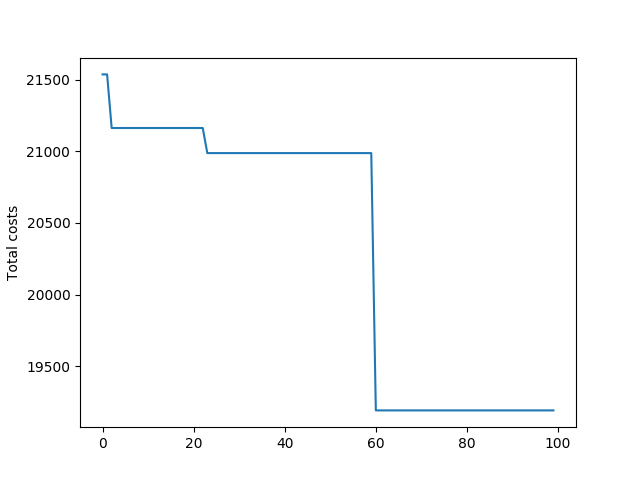
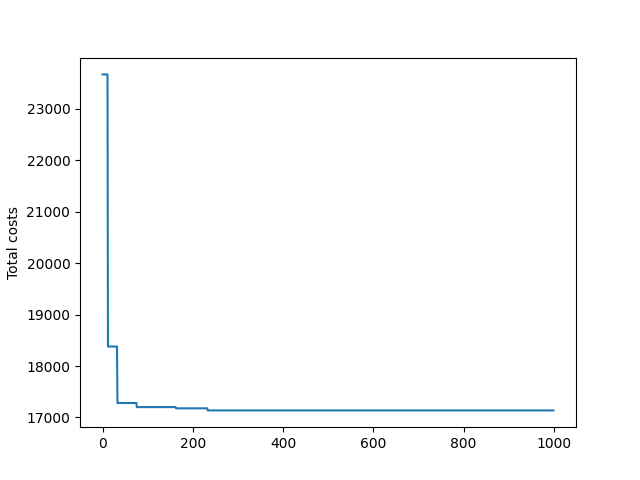
Better

diff --git a/airplane.py b/airplane.py
@@ -2,6 +2,13 @@ import numpy as np
 import matplotlib.pyplot as plt
 import seaborn as sns
 import random
+import copy
+
+class Member:
+    def __init__(self, airplane):
+        self.airplane = airplane
+        self.cost = 0
+        self.invert_cost = 0
 
 routes = np.array([0, 1, 2, 3, 4])
 revenu_lost_per_passenger_turned_away = np.array([13, 20, 7, 7, 15])
@@ -65,10 +72,10 @@ def get_revenu_lost_per_route(airplanes):
         string += 'Revenu lost on ' + str(index+1) + ' : ' + str(revenu_lost_temp) + ' => (' + str(passenger_demand_per_route[index]) + ' - ' + str(np.multiply(airplanes[index], aircraft_capacity_per_spot[index]).sum()) + ')' + ' * ' + str(revenu_lost_per_passenger_turned_away[index]) + ' \n'
     return revenu_lost
 
-def cost_function(airplanes):
+def cost_function(member):
     total_operating_cost = np.multiply(
-        operational_cost_per_spot, airplanes).sum()
-    total_revenu_lost = get_revenu_lost_per_route(airplanes)
+        operational_cost_per_spot, member.airplane).sum()
+    total_revenu_lost = get_revenu_lost_per_route(member.airplane)
     total_lost = total_operating_cost + total_revenu_lost
     return total_lost
 
@@ -77,7 +84,7 @@ def generate_first_population(pop_count):
     for index in range(0, pop_count):
         # generate a random distribution
         distribution = generate_aircraft_distribution()
-        all_population.append(distribution)
+        all_population.append(Member(distribution))
     return all_population
 
 def compute_costs(population):
@@ -85,43 +92,60 @@ def compute_costs(population):
     all_invert_costs = []
     for index in range(0, len(population)):
         cost = cost_function(population[index])
+        population[index].cost = cost
+        population[index].invert_cost = 1/cost
         all_invert_costs.append(1/cost)
         all_costs.append(cost)
-    return all_costs, all_invert_costs
+    return population
 
-def compute_probabilitis(all_costs, all_invert_costs):
-    sum_cost = sum(all_invert_costs)
+def compute_probabilitis(all_population):
+    sum_cost = sum(p.invert_cost for p in all_population)
     all_proba = []
-    for index in range(0, len(all_costs)):
-        proba = (1/all_costs[index]) / sum_cost
-        all_proba.append(proba)
-    return all_proba
+    for index in range(0, len(all_population)):
+        proba = (1/all_population[index].cost) / sum_cost
+        all_population[index].proba = proba
+    return all_population
 
-def pick_parents(all_population, all_proba):
+def pick_parents(all_population):
+    all_proba = list(map(lambda x: x.proba, all_population))
     return random.choices(all_population, weights=all_proba, k=2)
 
 def cross(parent1, parent2):
-    childs = [parent1.copy(), parent2.copy()]
+    childs = [copy.deepcopy(parent1), copy.deepcopy(parent2)]
     row_nb, column_nb = number_of_aircraft_per_spot.shape
     for index in range(0, column_nb):
         rand = random.uniform(0, 1)
-        cross_threshold = 0.1
+        cross_threshold = 0.8
         if (rand >= cross_threshold):
-            #print('Switch column', index)
-            childs[0][:, index] = parent2[:, index]
-            childs[1][:, index] = parent1[:, index]
+            childs[0].airplane[:, index] = parent2.airplane[:, index]
+            childs[1].airplane[:, index] = parent1.airplane[:, index]
     return childs[0], childs[1]
 
 def mutation(child):
     row_nb, column_nb = number_of_aircraft_per_spot.shape
     for index in range(0, column_nb):
         rand = random.uniform(0, 1)
-        mutation_threshold = 0.8
+        mutation_threshold = 0.2
         if (rand >= mutation_threshold):
-            #print('Regenerate column', index)
             aircraft_type_count = number_of_aircraft_avalaible_per_type[index]
             child[:, index] = generate_column(row_nb, aircraft_type_count)
     return child
+
+def mutation2(child):
+    row_nb, column_nb = number_of_aircraft_per_spot.shape
+    for index in range(0, column_nb):
+        rand = random.uniform(0, 1)
+        mutation_threshold = 0.8
+        if (rand >= mutation_threshold):
+            index1 = random.randint(0, row_nb-1)
+            index2 = random.randint(0, row_nb-1)
+            while index1 == index2:
+                index2 = random.randint(0, row_nb-1)
+            tmp = child.airplane[index1, index]
+            child.airplane[index1, index] = child.airplane[index2, index]
+            child.airplane[index2, index] = tmp
+    return child
+
 
 def mutation_all(population):
     row_nb, column_nb = number_of_aircraft_per_spot.shape
@@ -139,10 +163,17 @@ def mutation_all(population):
     return population
 
 
+def replace_with_better(all_population, child):
+    min_proba = min(all_population, key=lambda x: x.proba)
+    index = all_population.index(min_proba)
+    all_population[index] = child
+    return all_population
+
+
 
 def main():
     initial_population_count = 20
-    generation = 100
+    generation = 1000
     all_population = []
     all_costs = []
     all_invert_costs = []
@@ -154,24 +185,27 @@ def main():
 
     for gen in range(0, generation):
         # Get the cost
-        all_costs, all_invert_costs = compute_costs(all_population)
-        all_mins.append(min(all_costs))
+        all_population = compute_costs(all_population)
+        all_mins.append(min(all_population, key=lambda x: x.cost))
         # Compute probalities
-        all_proba = compute_probabilitis(all_costs, all_invert_costs)
+        all_population = compute_probabilitis(all_population)
         # Pick parents
-        parents = pick_parents(all_population, all_proba)
+        parents = pick_parents(all_population)
         parent1 = parents[0]
         parent2 = parents[1]
         # Cross parents
         child1, child2 = cross(parent1, parent2)
         # Mutations 
-        child1 = mutation(child1)
-        child2 = mutation(child2)
-        all_population.append(child1)
-        all_population.append(child2)
+        child1 = mutation2(child1)
+        child2 = mutation2(child2)
+        all_population = replace_with_better(all_population, child1)
+        all_population = replace_with_better(all_population, child2)
         print(gen)
 
-    plt.plot(all_mins)
+    results = list(map(lambda x: x.cost, all_mins))
+    print(all_mins[generation-1].airplane)
+    print(all_mins[generation-1].cost)
+    plt.plot(results)
     plt.ylabel('Total costs')
     plt.savefig('airplanes.png')
 
